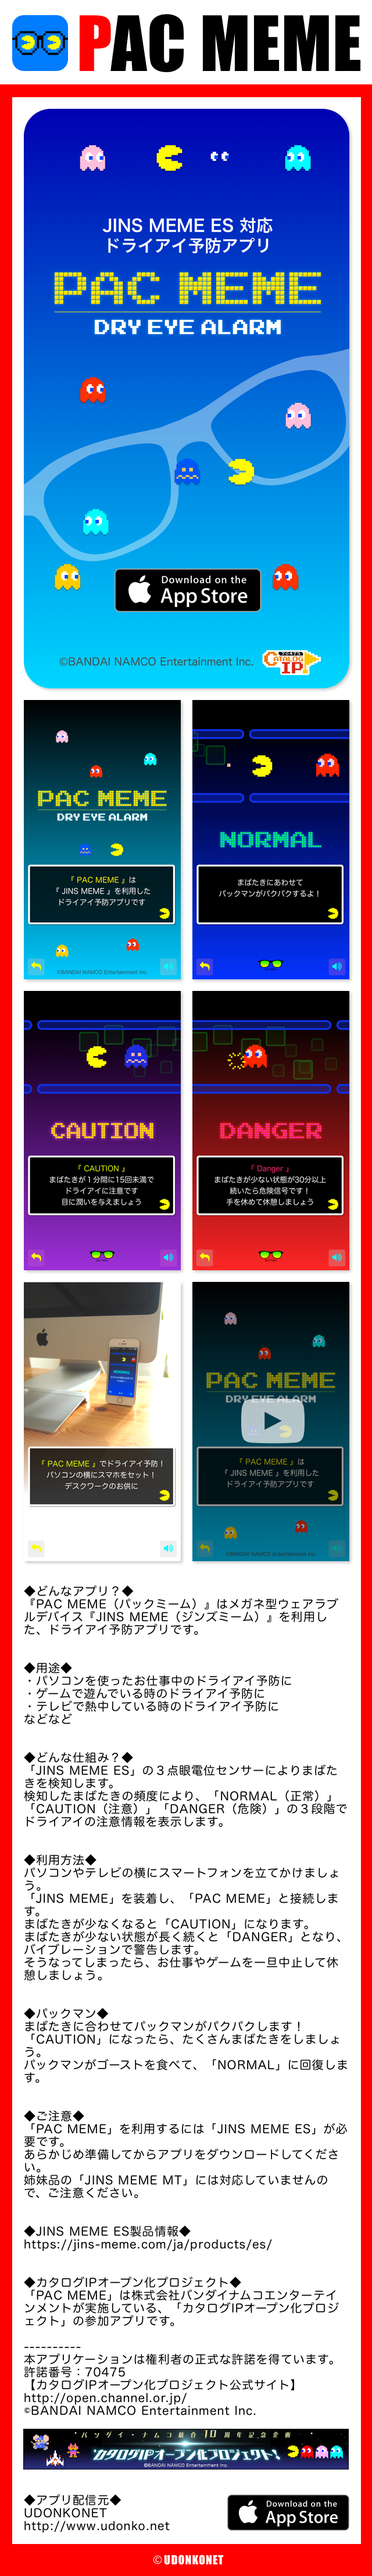
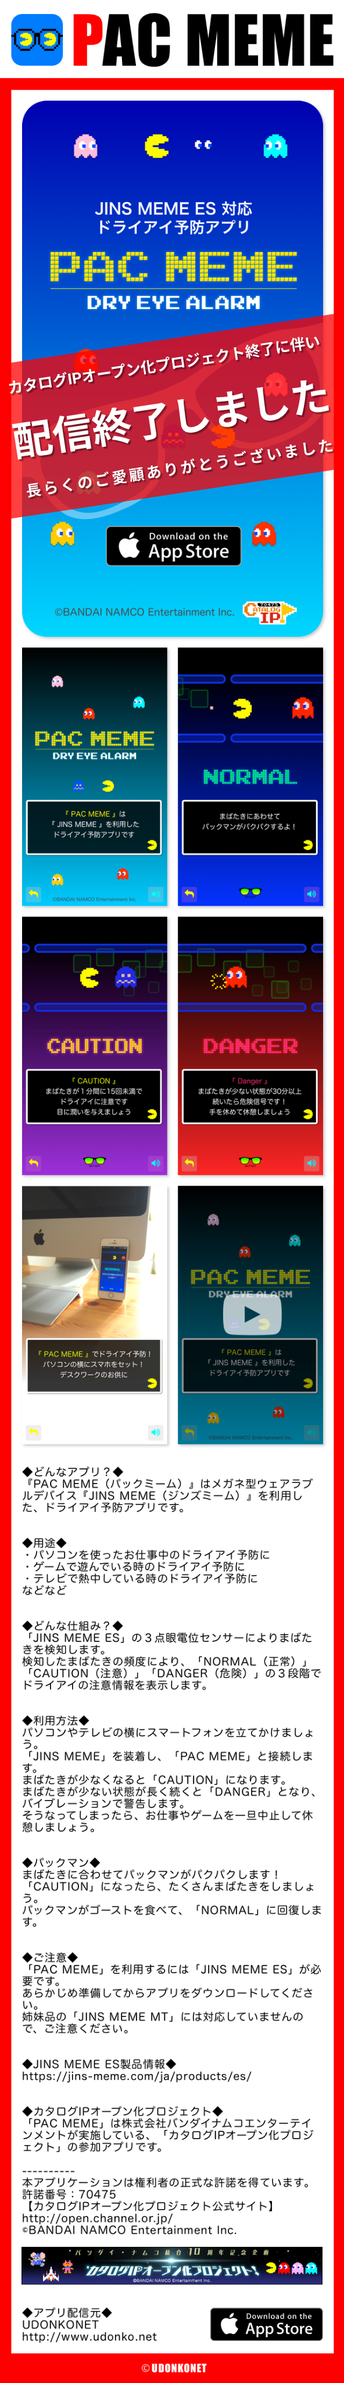
PACMEME配信停止

Changed region(s): [[0.0304, 0.125, 0.973, 0.2188]]

diff --git a/firebase/public/pacmeme.html b/firebase/public/pacmeme.html
@@ -1,54 +1,45 @@
 <!doctype html>
 <html>
 
-    <head>
-        <meta charset="utf-8">
-        <meta name="keywords" content="iOS,スマホ,モバイル,名古屋,WEB,WEB制作,アプリ開発,Android,ウェアラブルデバイス,JINS MEME">
-        <meta name="description" content="--PACK MEME-- JINS MEMEを利用したドライアイ予防アプリです">
-        <meta name="viewport" content="width=device-width, initial-scale=0.5, minimum-scale=0.5">
-        <title>UDONKONET</title>
-        <link rel="shortcut icon" href="images/favicon.png">
-        <!--         <link rel="stylesheet" href="styles.css"> -->
+<head>
+    <meta charset="utf-8">
+    <meta name="keywords" content="iOS,スマホ,モバイル,名古屋,WEB,WEB制作,アプリ開発,Android,ウェアラブルデバイス,JINS MEME">
+    <meta name="description" content="--PACK MEME-- JINS MEMEを利用したドライアイ予防アプリです">
+    <meta name="viewport" content="width=device-width, initial-scale=0.5, minimum-scale=0.5">
+    <title>UDONKONET</title>
+    <link rel="shortcut icon" href="images/favicon.png">
+    <!--         <link rel="stylesheet" href="styles.css"> -->
 
-        <!--Google Analytics-->
-        <script>
-            (function (i, s, o, g, r, a, m) {
-                i['GoogleAnalyticsObject'] = r;
-                i[r] = i[r] || function () {
-                    (i[r].q = i[r].q || []).push(arguments)
-                }, i[r].l = 1 * new Date();
-                a = s.createElement(o),
-                    m = s.getElementsByTagName(o)[0];
-                a.async = 1;
-                a.src = g;
-                m.parentNode.insertBefore(a, m)
-            })(window, document, 'script', 'https://www.google-analytics.com/analytics.js', 'ga');
+    <!--Google Analytics-->
+    <script>
+        (function (i, s, o, g, r, a, m) {
+            i['GoogleAnalyticsObject'] = r;
+            i[r] = i[r] || function () {
+                (i[r].q = i[r].q || []).push(arguments)
+            }, i[r].l = 1 * new Date();
+            a = s.createElement(o),
+                m = s.getElementsByTagName(o)[0];
+            a.async = 1;
+            a.src = g;
+            m.parentNode.insertBefore(a, m)
+        })(window, document, 'script', 'https://www.google-analytics.com/analytics.js', 'ga');
 
-            ga('create', 'UA-89357320-1', 'auto');
-            ga('send', 'pageview');
-        </script>
-        <style>
-            body {
-                background-color: #000000;
-                margin: 0;
-                padding: 0;
-                text-align: center;
-                color: #fff;
-            }
-        </style>
-    </head>
+        ga('create', 'UA-89357320-1', 'auto');
+        ga('send', 'pageview');
+    </script>
+    <style>
+        body {
+            background-color: #000000;
+            margin: 0;
+            padding: 0;
+            text-align: center;
+            color: #fff;
+        }
+    </style>
+</head>
 
-    <body>
-        <img src="images/pacmeme.png" usemap="#ImageMap" />
-        <map name="ImageMap">
-            <area shape="rect" coords="195,974,451,1056" target="_blank" href="https://itunes.apple.com/us/app/pac-meme/id1180920227?l=ja&ls=1&mt=8" alt="PAC MEME ダウンロード" />
-            <area shape="rect" coords="410,2399,529,2484" href="https://youtu.be/cNvUIxhd4Kg" alt="PAC MEME 紹介動画" />
-            <area shape="rect" coords="37,3817,474,3874" target="_blank" href="https://jins-meme.com/ja/products/es/" alt="JINS MEME ES 製品情報" />
-            <area shape="rect" coords="36,4170,602,4249" target="_blank" href="http://open.channel.or.jp" alt="カタログIPオープン化プロジェクト" />
-            <area shape="rect" coords="391,4285,602,4352" target="_blank" href="https://itunes.apple.com/jp/developer/hidehiko-kondo/id436143446" alt="UDONKONET App ダウンロード" />
-        </map>
-
-        <!-- 		<video src="images/pacmeme.mp4" width="270" height="480" controls=""></video> -->
-    </body>
+<body>
+    <img src="images/pacmeme.png" usemap="#ImageMap" />
+</body>
 
 </html>
